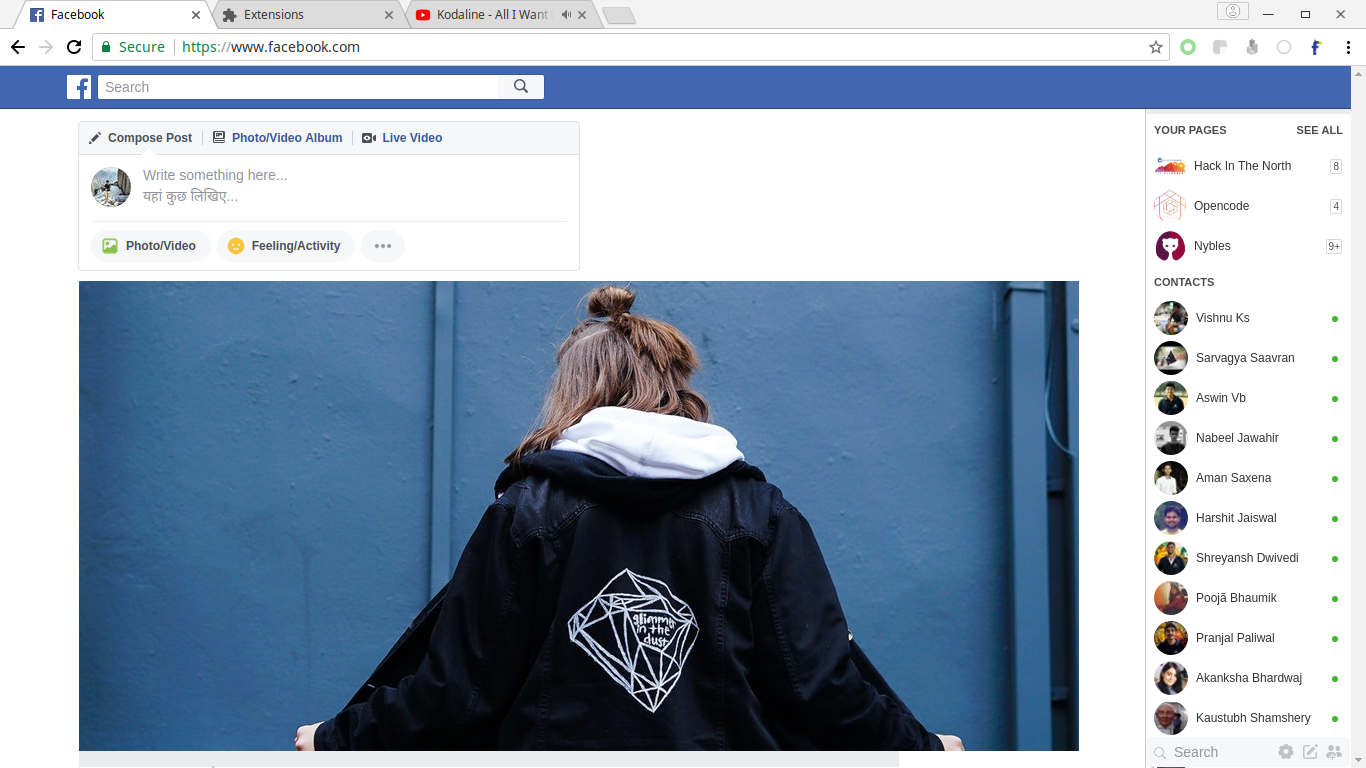
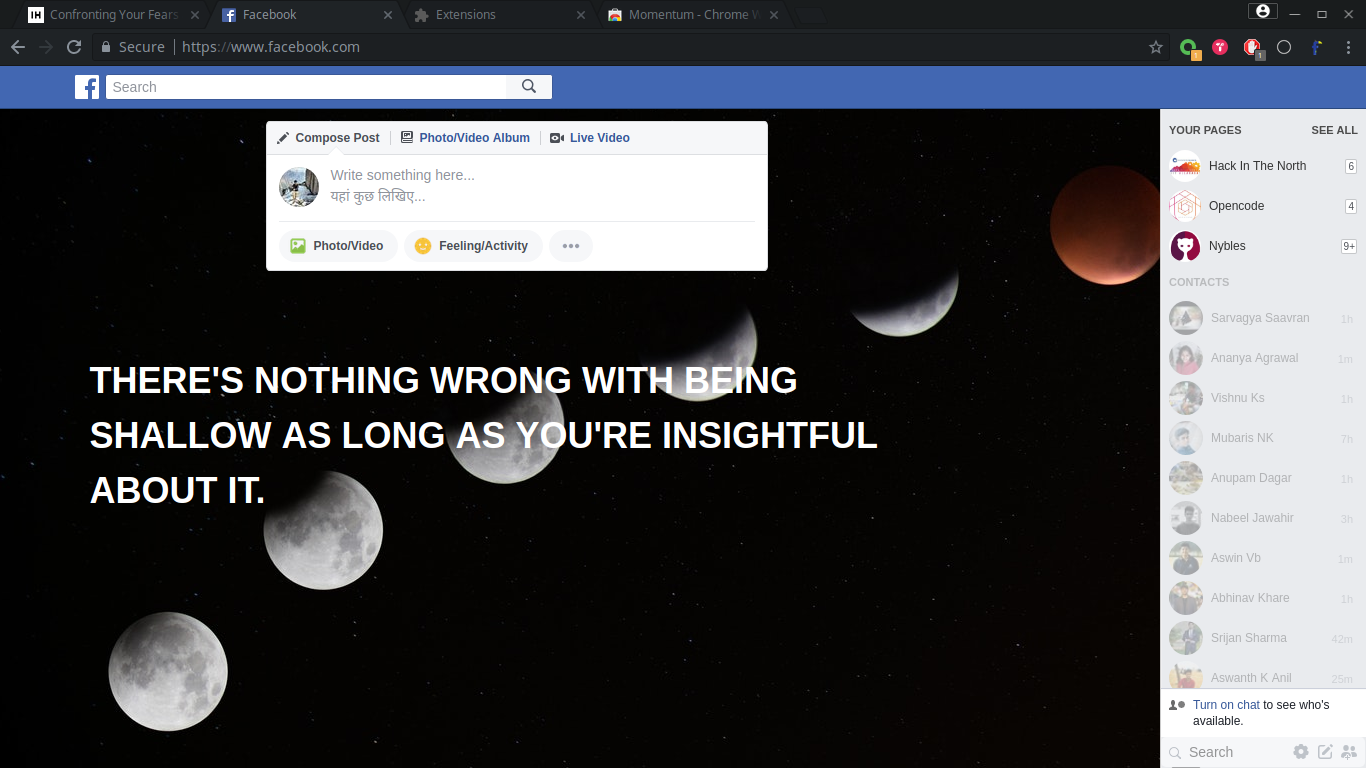
Update to version 1.0 its finally done

diff --git a/style_facebook.js b/style_facebook.js
@@ -1,11 +1,10 @@
 let a = 1;
-let f = 1;
+let k = 1;
 
 var userData = [];
 setInterval(function () {
-  updateMinimal();
+  updateBackgroundSettings();
 }, 1000);
-
 
 window.onresize = function () {
   autoWidth();
@@ -17,43 +16,6 @@ function autoWidth() {
   }
 }
 
-function updateMinimal() {
-  // status-icon  Minimal Mode
-
-
-  chrome.storage.local.get(/* String or Array */["statusicon"], function (
-    items
-  ) {
-    if (items.statusicon === "true") {
-
-      if (a === 1) {
-        $(function () {
-
-          $('#bottomContent').html("<img src='https://source.unsplash.com/random/1000x470' style='margin-left:-20px'/>")
-          a = 2;
-        });
-      }
-      updateBackgroundSettings();
-
-
-    }
-    else if (items.statusicon === "false") {
-      if (a === 2) {
-        location.reload();
-        a = 1;
-      }
-      // Add focus mode
-
-
-
-
-
-    }
-  });
-
-
-
-}
 
 function updateBackgroundSettings() {
   if ($("body").hasClass("UIPage_LoggedOut")) return;
@@ -70,24 +32,105 @@ function updateBackgroundSettings() {
         $("._5pcb._dp7._4j3f").css("display", "none");
         $("._2t-f").css("display", "none");
         $(".bottomContent").css("color", "white");
+        $('.home_right_column').css("display", "none");
+
+        $('.uiFutureSideNav').css("display", "none");
+        $('._64b').css("display", "none");
+
+        if (a === 1) {
+          let quote = "Be yourself; everyone else is already taken.";
+          let author = " Oscar Wilde";
+          $(function () {
+            if (k === 1) {
+              var baseUrl = "https://talaikis.com/api/quotes/random/";
+              $.ajax({
+                url: baseUrl,
+                type: 'GET',
+                dataType: 'json',
+                success: function (res) {
+                  // console.log(res.quote);
+                  // console.log(res.author);
+                  quote = res.quote;
+                  author = res.author;
+
+
+                  $("body").css("overflow", "hidden");
+                  $("#contentArea").css("z-index", "200");
+
+                  $('#bottomContent').html("\
+                    <table >  \<tr>\<td></td>\
+          <td rowspan=2><img src='https://source.unsplash.com/random/1500x800/?nature,night' \
+          style='margin-left:-300px;margin-top:-180px;z-index:-1;\
+\
+          '></td> \
+        </tr >  \
+                    <tr>\
+          <td colspan=2 > <p style='margin-top:-400px;font-size:36px; \
+          font-weight:900;text-transform:uppercase;color:white ; \
+          line-height:55px;margin-left:-200px;max-width:800px;\
+          word-wrap:break-word;'>"+ quote + "</p></td>\
+        </tr>  \
+      </table > ")
 
 
 
+                }
+              });
+              k = 2;
+
+            }
+
+
+            a = 2;
+
+            // $("body").prepend('<div id="chromeFacebookbackground"></div>');
+          });
+        }
       }
       else if (items.onoffswitch === "false") {
         // console.log("it worked");
         $("._5pcb._dp7._4j3f").css("display", "inline");
         $("._2t-f").css("display", "inline");
         $('._2s25').css('color', 'white');
+        if (a === 2) {
+          location.reload();
+          a = 1;
+        }
       }
     });
 
+    //minimal mode
 
+    chrome.storage.local.get(/* String or Array */["statusicon"], function (
+      items
+    ) {
+      if (items.statusicon === "true") {
+        $('.home_right_column').css("display", "none");
+
+        $('.fixed_elem').css("display", "none");
+        $('._64b').css("display", "none");
+        // if (a === 1) {
+        //   $(function () {
+
+        //     $('#bottomContent').html("<img src='https://source.unsplash.com/random/1000x470' style='margin-left:-20px'/>")
+        //     a = 2;
+        //   });
+        // }
+        updateBackgroundSettings();
+
+      }
+      else if (items.statusicon === "false") {
+        // if (a === 2) {
+        //   location.reload();
+        //   a = 1;
+        // }
+        // Add focus mode
+
+      }
+    });
 
     $('._15p4._2pis').css('color', 'black');
     if (userData[2] != " ") {
-
-
 
       $('#pagelet_navigation').css('display', 'none');
       $('#leftCol').css('display', 'none');
@@ -99,7 +142,6 @@ function updateBackgroundSettings() {
       $('._1-ia').css('display', 'none');
 
       $('#pagelet_ego_pane').css('display', 'none');
-
 
       //background set
       if (!$("#chromeFacebookbackground").length) {
@@ -147,9 +189,3 @@ function updateBackgroundSettings() {
     $("#pageNav .navItem a").addClass("targetAfter");
   });
 }
-
-
-
-updateMinimal();
-
-

diff --git a/popup.html b/popup.html
@@ -26,7 +26,7 @@
     <div class="mdl-tabs mdl-js-tabs mdl-js-ripple-effect">
       <div class="mdl-tabs__tab-bar">
         <!-- <a href="#settings" class="mdl-tabs__tab is-active"> -->
-        <span>Pelicon Facebook</span>
+        <span>Pelican Facebook</span>
         <!-- </a> -->
         <!-- <a href="#help" class="mdl-tabs__tab ">
           <span>Help?</span>

diff --git a/README.md b/README.md
@@ -1,15 +1,15 @@
-# Pelicon <img src="icons/icon128.png" width="60"> 
+# Pelican <img src="icons/icon128.png" width="60"> 
 
 > Chrome extension for a better Facebook :rocket:
 
-Pelicon is a chrome extension which makes Facebook more minimal and focused :shipit:.
+Pelican is a chrome extension which makes Facebook more minimal and focused :shipit:.
 
-**[Releases](https://github.com/aviary-apps/Pelicon/releases)** &nbsp;&nbsp;
+**[Releases](https://github.com/aviary-apps/Pelican/releases)** &nbsp;&nbsp;
 
 <br>
 
 
-<a href="https://github.com/aviary-apps/Pelicon/releases/latest">
+<a href="https://github.com/aviary-apps/Pelican/releases/latest">
 	<img src="assets/img/thumbnail.png" width="846">
 </a>
 
@@ -38,7 +38,7 @@ You can toggle in the popup to have a minimal version of Facebook.
 
 -  Only keeps timeline from main content.
 
-<a href="https://github.com/aviary-apps/Pelicon/releases/latest">
+<a href="https://github.com/aviary-apps/Pelican/releases/latest">
 	<img src="assets/img/minimal.png" width="846">
 </a>
 
@@ -51,7 +51,7 @@ Clone the repository, make the adjustments you need, and [load the unpacked exte
 
 ## Disclaimer
 
-Pelicon is a third-party app and is not affiliated with Facebook.
+Pelican is a third-party app and is not affiliated with Facebook.
 
 ## License
 
